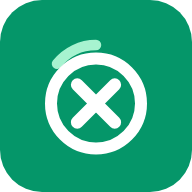
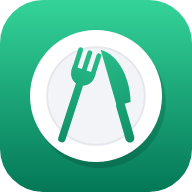
Ícone novo (prato com garfo e faca em degradê) que segue a cor do tema no app, na aba e no ícone da Tela de Início
Claude-Session: https://claude.ai/code/session_019J5jfSzFSeXiibVqE5JX1X

diff --git a/frontend/src/icon-art.js b/frontend/src/icon-art.js
@@ -1,0 +1,23 @@
+/**
+ * Arte do ícone do app (SVG). a/b: cores do degradê (topo/base); id: id único do degradê;
+ * square: sem cantos arredondados (ícone da Tela de Início do iPhone, que arredonda sozinho).
+ */
+export function iconSvg([a, b], id = 'g', square = false) {
+  return `<svg xmlns="http://www.w3.org/2000/svg" viewBox="0 0 512 512">
+<defs><linearGradient id="${id}" x1="0" y1="0" x2="0" y2="512" gradientUnits="userSpaceOnUse"><stop offset="0" style="stop-color:${a}"/><stop offset="1" style="stop-color:${b}"/></linearGradient></defs>
+<rect width="512" height="512" rx="${square ? 0 : 115}" fill="url(#${id})"/>
+<circle cx="266" cy="272" r="176" fill="#000" opacity=".14"/>
+<circle cx="256" cy="256" r="176" fill="#fff"/>
+<circle cx="256" cy="256" r="130" fill="#f2f4f7" stroke="#e4e8ed" stroke-width="5"/>
+<g transform="rotate(18 200 262)" fill="url(#${id})">
+<rect x="168" y="128" width="13" height="70" rx="6.5"/><rect x="193.5" y="128" width="13" height="70" rx="6.5"/><rect x="219" y="128" width="13" height="70" rx="6.5"/>
+<path d="M168 182h64v10c0 19-14 33-32 33s-32-14-32-33z"/>
+<rect x="190" y="215" width="20" height="170" rx="10"/>
+</g>
+<g transform="rotate(-16 318 262)" fill="url(#${id})">
+<path d="M306 124c44 26 54 100 38 156h-38z"/>
+<rect x="304" y="270" width="24" height="114" rx="12"/>
+</g>
+</svg>
+`;
+}

diff --git a/frontend/src/index.css b/frontend/src/index.css
@@ -25,6 +25,8 @@ body,
   --tint: 243 250 247;
   --track: 230 242 236;
   --bar: 15 42 34;
+  --logo-a: 52 211 153;
+  --logo-b: 4 120 87;
   color-scheme: light;
 }
 html[data-theme='oceano'] {
@@ -42,6 +44,8 @@ html[data-theme='oceano'] {
   --tint: 242 248 252;
   --track: 227 238 246;
   --bar: 15 34 51;
+  --logo-a: 56 189 248;
+  --logo-b: 3 105 161;
 }
 html[data-theme='lavanda'] {
   --brand: 124 58 237;
@@ -58,6 +62,8 @@ html[data-theme='lavanda'] {
   --tint: 247 245 253;
   --track: 235 231 247;
   --bar: 30 24 56;
+  --logo-a: 167 139 250;
+  --logo-b: 109 40 217;
 }
 html[data-theme='rosa'] {
   --brand: 219 39 119;
@@ -74,6 +80,8 @@ html[data-theme='rosa'] {
   --tint: 253 244 248;
   --track: 246 230 238;
   --bar: 58 20 38;
+  --logo-a: 255 45 135;
+  --logo-b: 255 106 61;
 }
 html[data-theme='escuro'] {
   --brand: 16 185 129;
@@ -92,6 +100,8 @@ html[data-theme='escuro'] {
   --track: 34 48 43;
   --bar: 27 38 34;
   color-scheme: dark;
+  --logo-a: 16 185 129;
+  --logo-b: 6 78 59;
 }
 html[data-theme='noite'] {
   --brand: 99 102 241;
@@ -110,6 +120,8 @@ html[data-theme='noite'] {
   --track: 37 41 68;
   --bar: 26 29 52;
   color-scheme: dark;
+  --logo-a: 129 140 248;
+  --logo-b: 55 48 163;
 }
 
 /* Temas escuros: os tons pastel fixos (avisos, água, exercícios) viram versões translúcidas. */

diff --git a/frontend/src/ui.tsx b/frontend/src/ui.tsx
@@ -1,4 +1,5 @@
-import { useEffect, useState, type ReactNode } from 'react';
+import { useEffect, useId, useMemo, useState, type ReactNode } from 'react';
+import { iconSvg } from './icon-art.js';
 import { NavLink, Outlet, useLocation } from 'react-router-dom';
 import { AlertCircle, ChefHat, ChevronRight, Dumbbell, Home, LineChart, Loader2, Shield, Trophy, User, Utensils, X } from 'lucide-react';
 import { useAuth } from './auth';
@@ -36,8 +37,11 @@ export function Avatar({ name, src, size = 36, className = '' }: { name?: string
   );
 }
 
+/** Ícone do app desenhado na tela: o degradê segue o tema (--logo-a/--logo-b em index.css). */
 export function Logo({ className = 'h-9 w-9' }: { className?: string }) {
-  return <img src={`${import.meta.env.BASE_URL}icon.svg`} alt="" className={`${className} shrink-0 rounded-xl`} />;
+  const id = `logo${useId().replace(/:/g, '')}`;
+  const svg = useMemo(() => iconSvg(['rgb(var(--logo-a))', 'rgb(var(--logo-b))'], id), [id]);
+  return <span aria-hidden="true" className={`${className} block shrink-0 [&>svg]:h-full [&>svg]:w-full`} dangerouslySetInnerHTML={{ __html: svg }} />;
 }
 
 /** Menu lateral no desktop, barra inferior no celular. */

diff --git a/frontend/src/theme.ts b/frontend/src/theme.ts
@@ -19,6 +19,10 @@ export function applyTheme(id: string | null | undefined) {
   if (theme.id === 'verde') root.removeAttribute('data-theme');
   else root.setAttribute('data-theme', theme.id);
   document.querySelector('meta[name="theme-color"]')?.setAttribute('content', theme.bar);
+  // Ícone da aba e o de "Adicionar à Tela de Início" (o iPhone guarda o ícone na hora de adicionar).
+  const base = import.meta.env.BASE_URL;
+  document.querySelector('link[rel="icon"]')?.setAttribute('href', `${base}icon-${theme.id}.svg`);
+  document.querySelector('link[rel="apple-touch-icon"]')?.setAttribute('href', `${base}icon-${theme.id}-180.png`);
   try {
     localStorage.setItem(KEY, theme.id);
   } catch {

diff --git a/frontend/index.html b/frontend/index.html
@@ -7,8 +7,8 @@
     <meta name="apple-mobile-web-app-capable" content="yes" />
     <meta name="apple-mobile-web-app-title" content="Dieta X" />
     <link rel="manifest" href="manifest.webmanifest" />
-    <link rel="icon" type="image/svg+xml" href="icon.svg" />
-    <link rel="apple-touch-icon" href="icon-192.png" />
+    <link rel="icon" type="image/svg+xml" href="icon-verde.svg" />
+    <link rel="apple-touch-icon" href="icon-verde-180.png" />
     <title>Dieta X</title>
   </head>
   <body>

diff --git a/frontend/src/icon-art.d.ts b/frontend/src/icon-art.d.ts
@@ -1,0 +1,1 @@
+export function iconSvg(colors: [string, string] | readonly [string, string], id?: string, square?: boolean): string;
